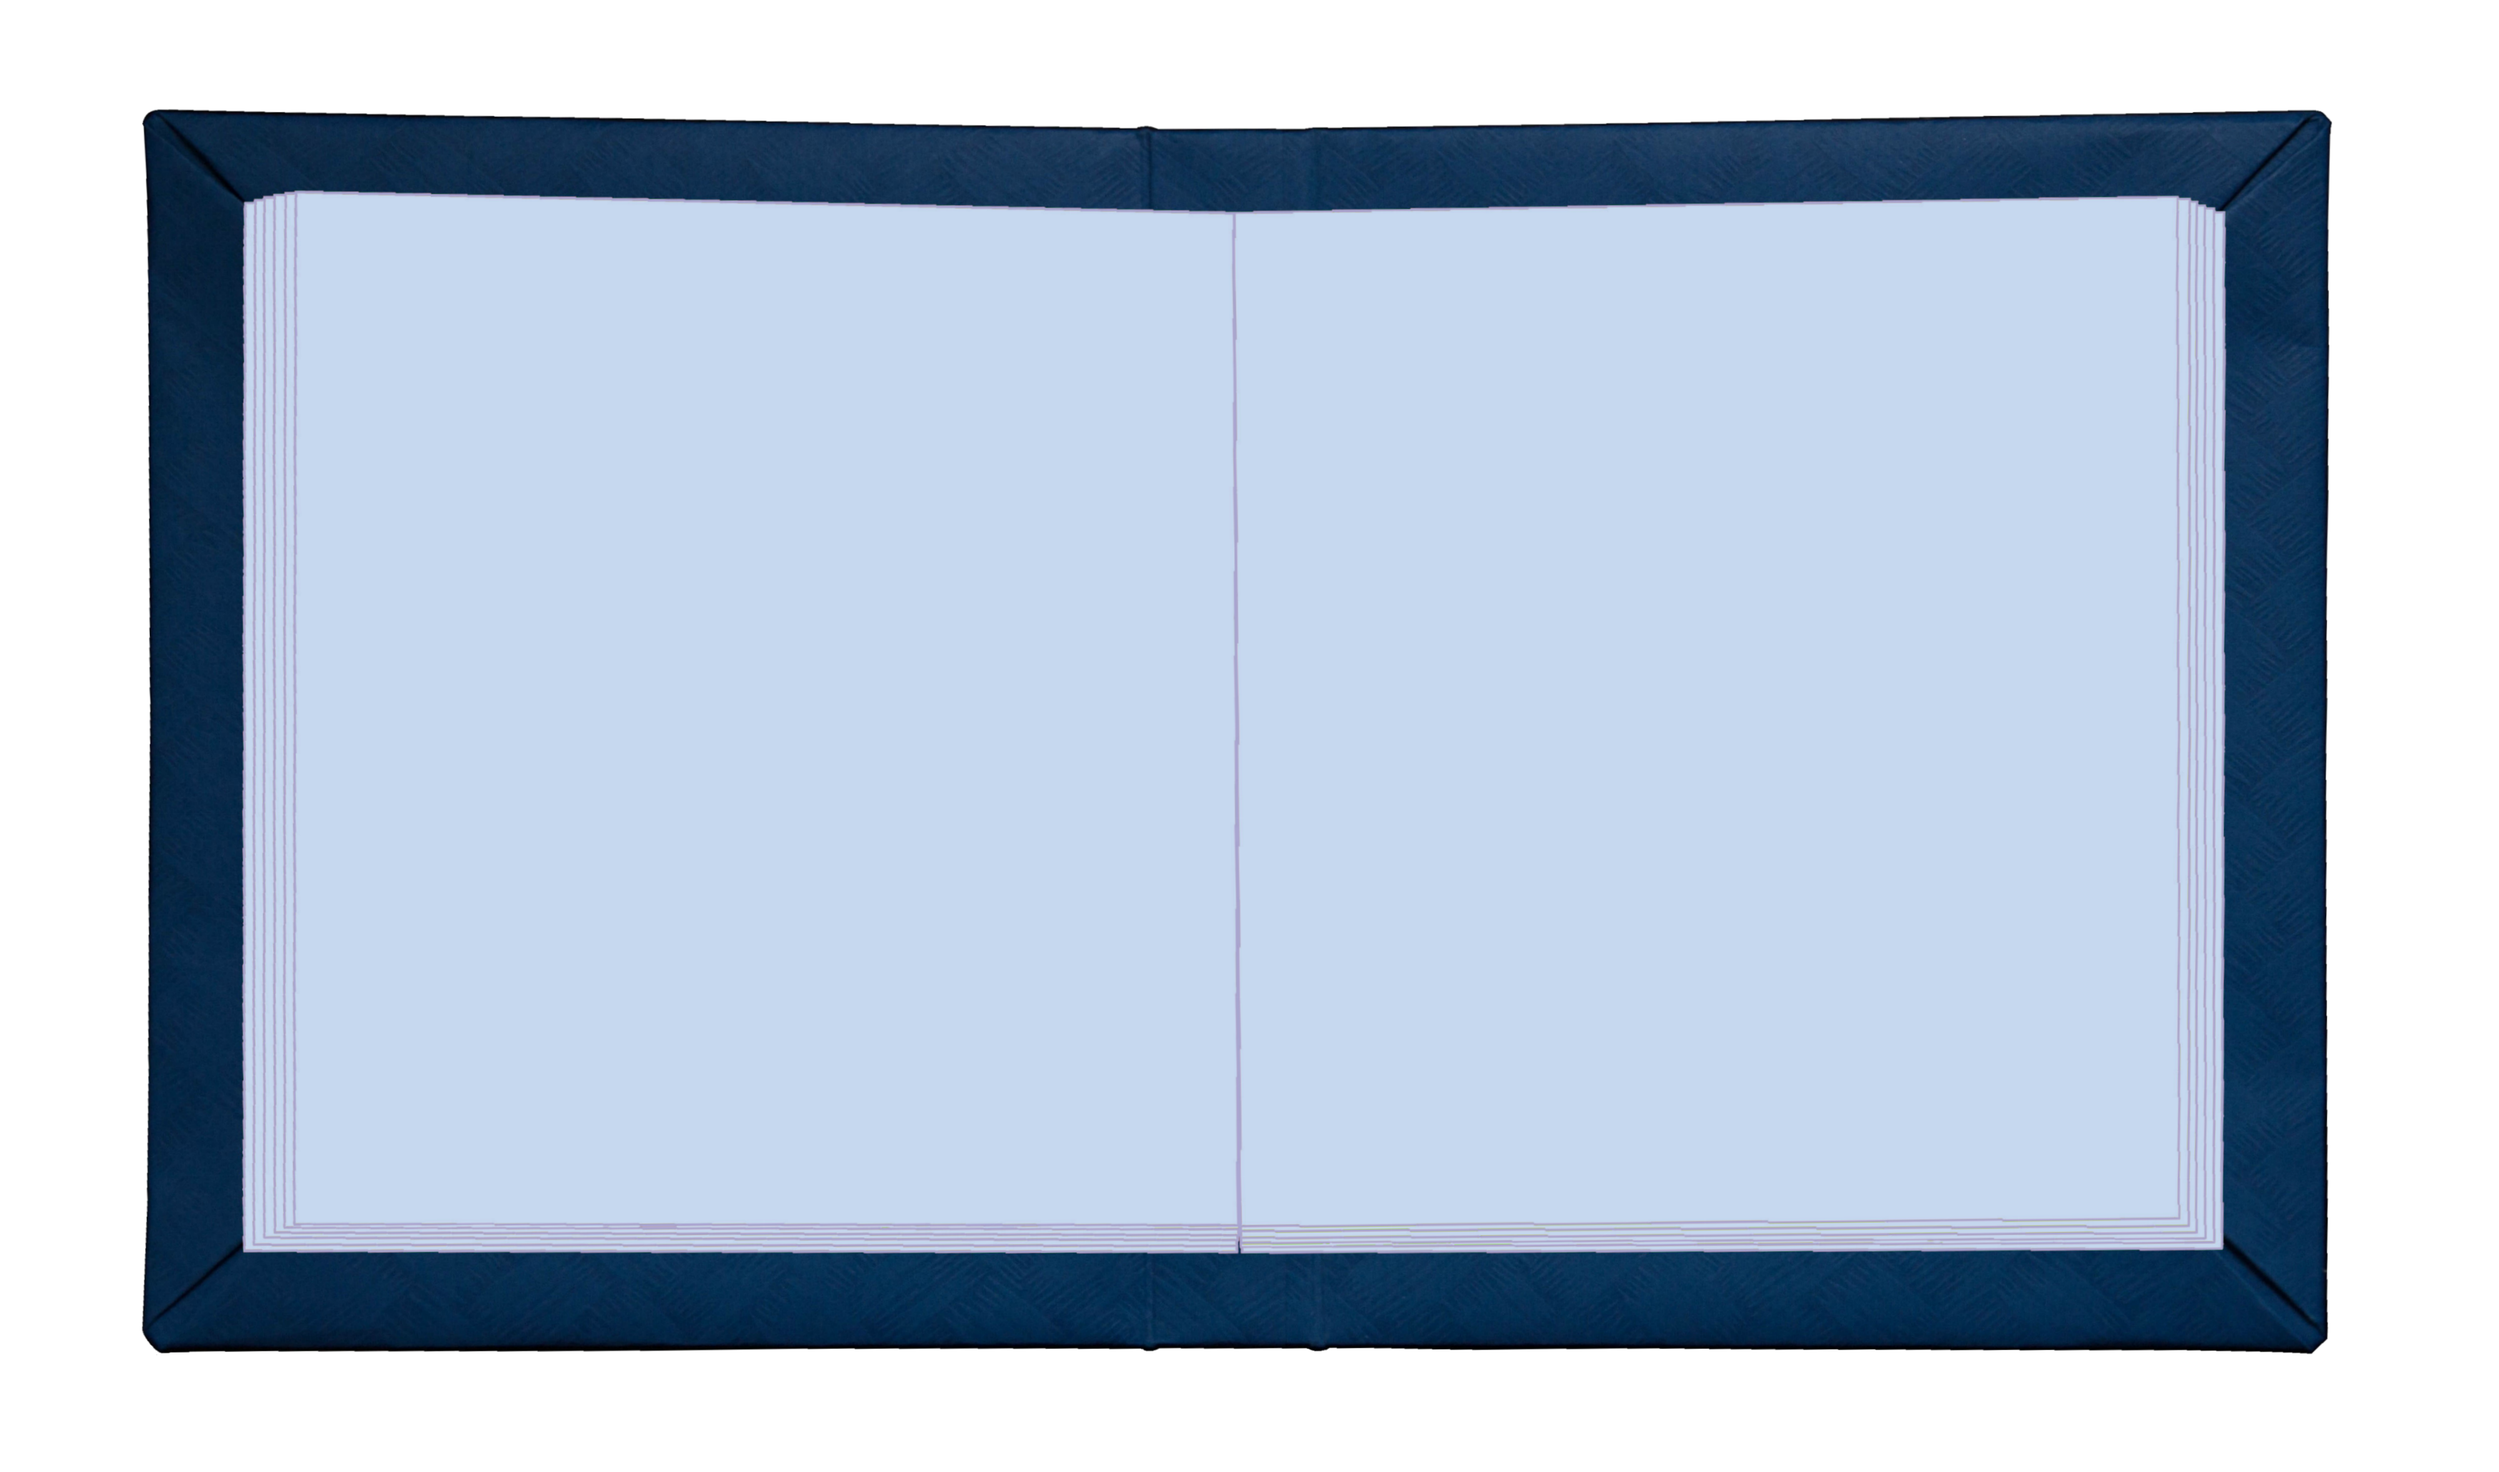
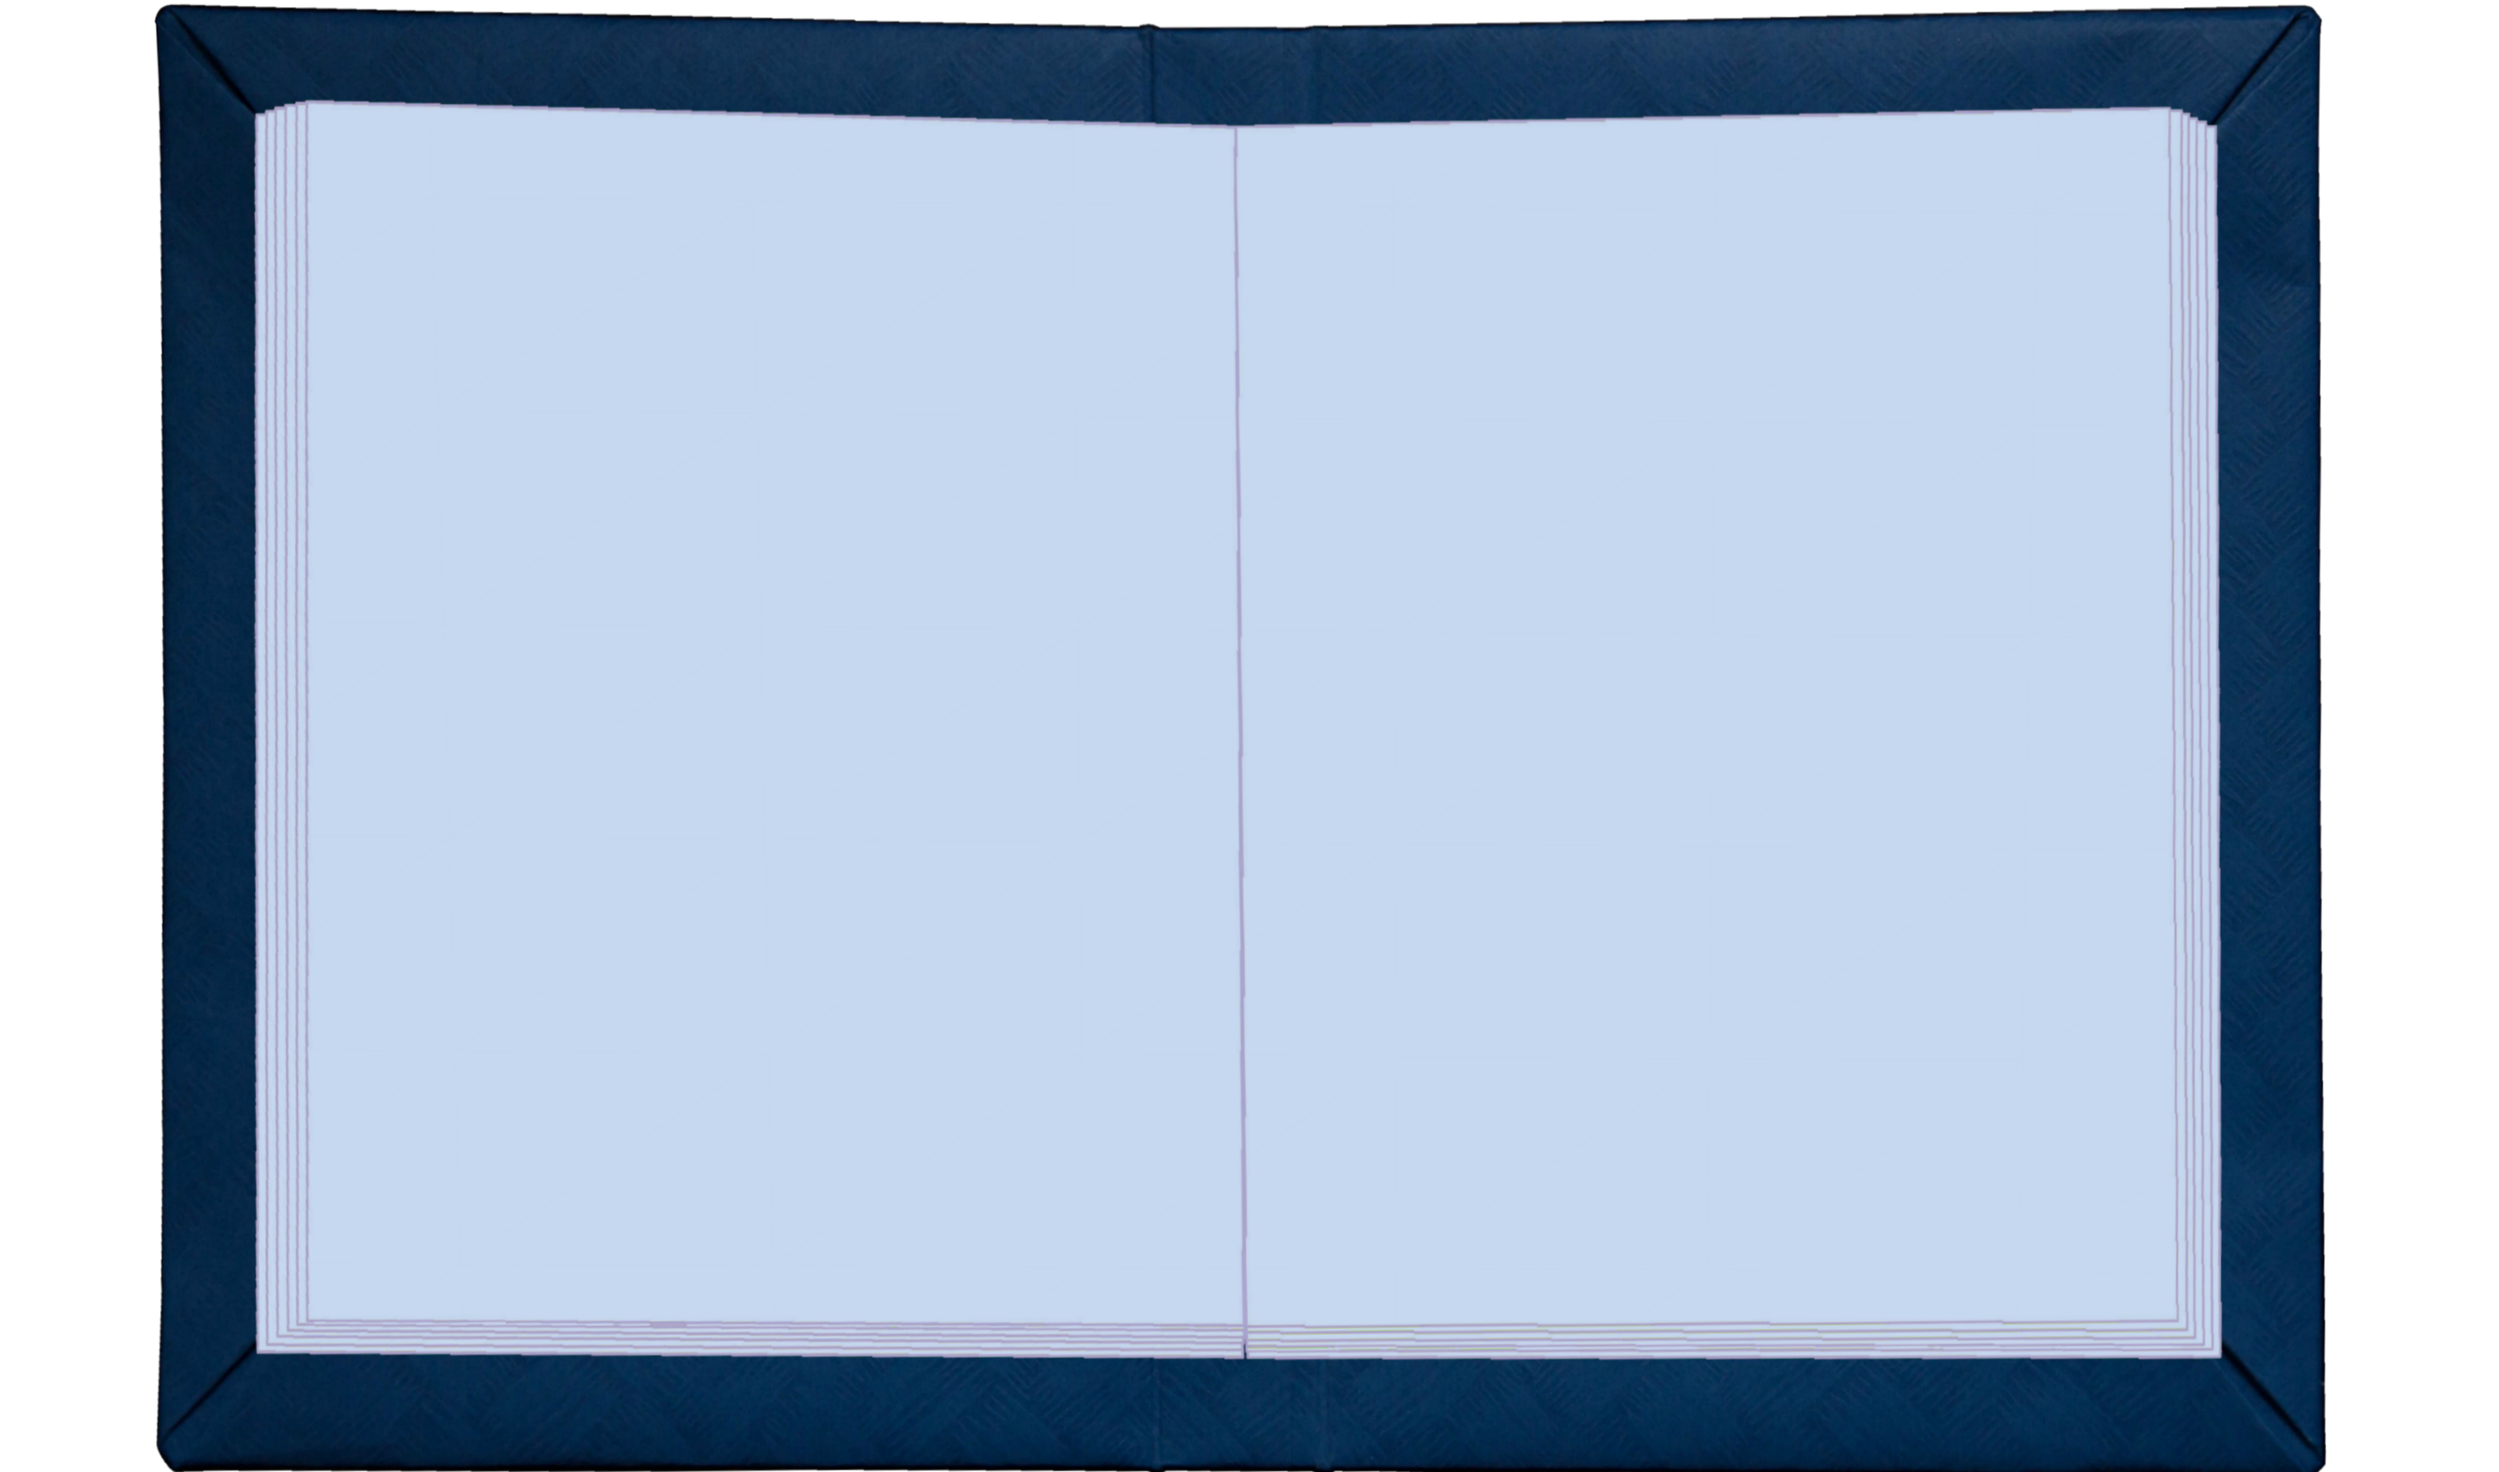
Book-Base
把書本的圖片加上去了喔
連圖片也有稍微更動

Changed region(s): [[0.0312, 0.0, 0.9375, 1.0], [0.4688, 0.6507, 0.5, 0.6817]]

diff --git a/jQuery/jQuery_index.js b/jQuery/jQuery_index.js
@@ -109,6 +109,8 @@ $(document).ready(function(){
 							$('#cover').fadeOut(1000, function(){
 								$('#book').fadeIn(1000);
 								$('aside').fadeIn(1000);
+								AdjustBookSize();
+								$('#book-base').fadeIn(1000);
 							});
 						});
 					});	
@@ -178,6 +180,7 @@ $(document).ready(function(){
 		});
 		}
 	});
+	
 });
 
 var initialCSS = function(){
@@ -197,6 +200,7 @@ var AdjustBookSize = function(){
     if(w <= 1200){
 		$('#book').css('left', (w-$('#book').width())/2);
     	$('aside').css('right', -$('#aside_contents').width());
+		
 		hide_aside = false;
     }
 	else{
@@ -204,6 +208,11 @@ var AdjustBookSize = function(){
 		$('aside').css('right', 0);
 		hide_aside = true;
 	}
+	
+	$('#book-base').css('width',$('#book').width()+270);
+	$('#book-base').css('height',$('#book').height()+110);
+	$('#book-base').css('left',$('#book').position().left-130);
+	$('#book-base').css('top',$('#book').position().top-44);
 	
 	//$('#book').css('marginTop', 0.05 * h);
 	//$('#book').css('marginBottom', 0.05 * h);

diff --git a/css/layout_index.css b/css/layout_index.css
@@ -114,16 +114,19 @@ body{
 }
 
 #book{
-	position: relative; 
+	position: fixed; 
 	left: 2rem;
-	top: 45px;
+	top: 5rem;
 	display: none;
 	box-shadow: 0px 0px 25px rgba(0%,0%,0%,0.9);
 }
 
-#book-padding{
-	position:relative;
-	background : url(../img/blue)
+#book-base{
+	position:fixed;
+	background:url(../img/BlueBook.png);
+	background-size: 100% 100%;
+	background-repeat: no-repeat;
+	display:none;
 }
 
 #content{

diff --git a/css/layout_book.css b/css/layout_book.css
@@ -1,7 +1,7 @@
 .page_left{
 	position: absolute;
 	left: 0;
-	background: url(../img/paper.jpg) 0 0;
+	background: url(../img/paper1.jpg) 0 0;
 	
 	//border-right: 1px solid black;
 }
@@ -10,7 +10,7 @@
 	position: absolute;
 	right: 0;
 	top: 0;
-	background: url(../img/paper.jpg) -50em 0;
+	background: url(../img/paper1.jpg) -50em 0;
 
 	transform-origin:right;
 	transform:skewY(5deg);

diff --git a/index.html b/index.html
@@ -102,7 +102,7 @@
 			
 			<span class="loginButton" id="login_register">註冊</span>
 		</div>
-		
+		<div id="book-base"></div>
 		<div id="book" class="bb-bookblock">
 			<div class="bb-item" id="createPlan">
 				<div class="page_left">

diff --git a/Plugin_css/bookblock.css b/Plugin_css/bookblock.css
@@ -1,6 +1,6 @@
 .bb-bookblock {
-	width: 890px;
-	height: 580px;
+	width: 786px;
+	height: 497px;
 	//margin: 0 auto;
 	position: relative;
 	z-index: 100;
